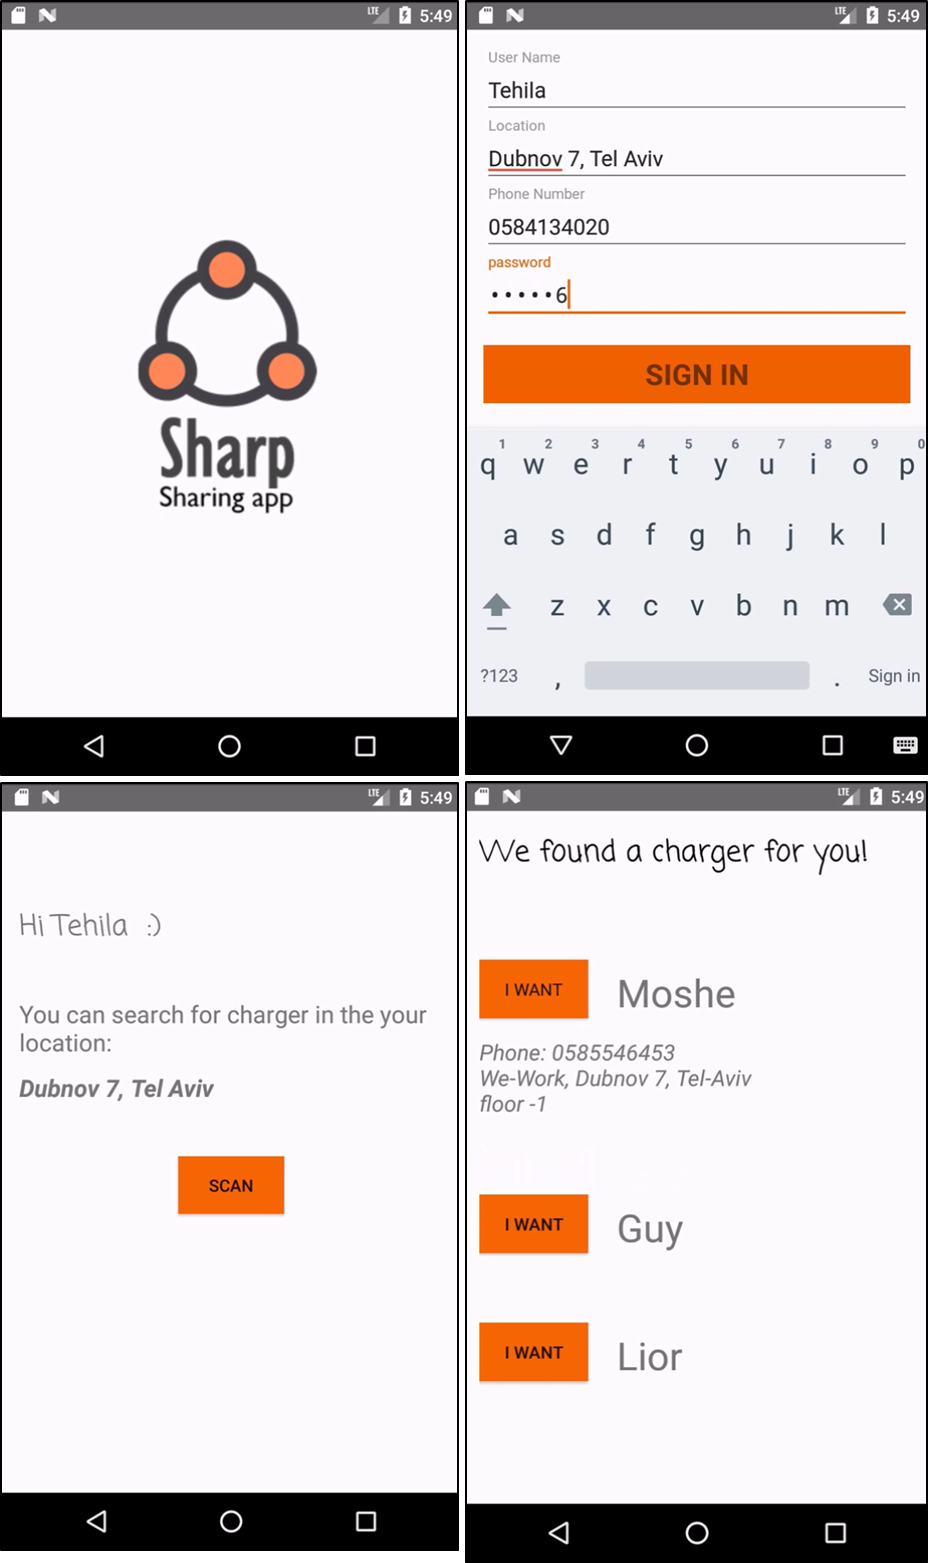
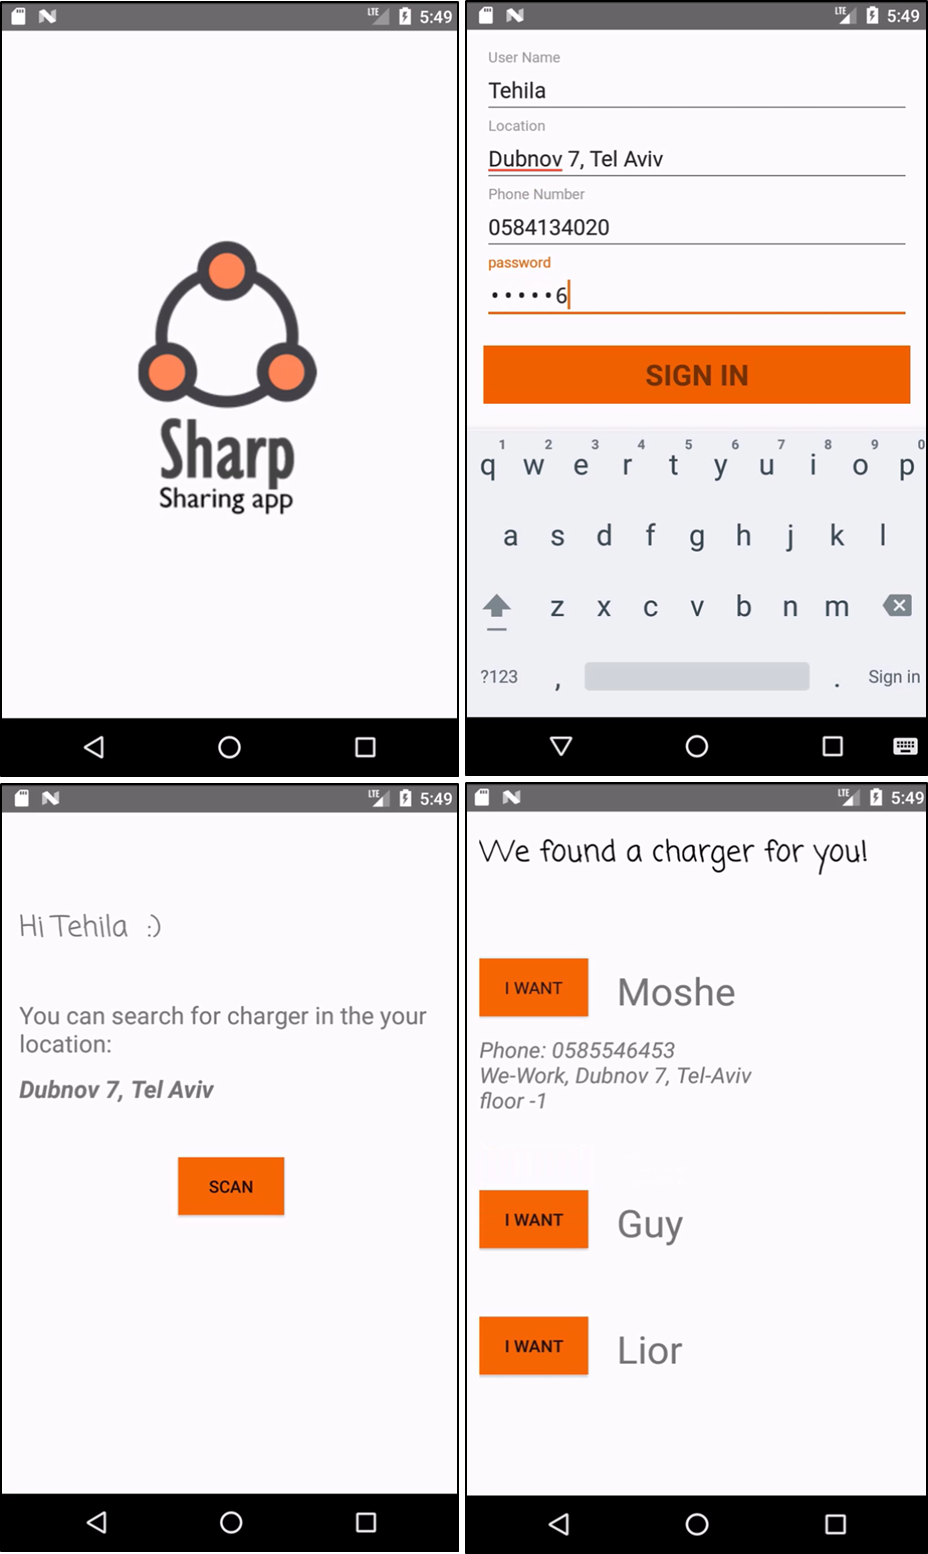
Picture and README

diff --git a/README.md b/README.md
@@ -4,10 +4,7 @@ Forgot your charger? Is the battery going to end? no matter...
 
 Open 'Sharp' and find the close chargers.
 
-![First screen](sharp_a.png)
-![First screen](sharp_b.png)
-![First screen](sharp_c.png)
-![First screen](sharp_d.png)
+![screen shots](sharp_img.png)
 
 
 #### Technologies
